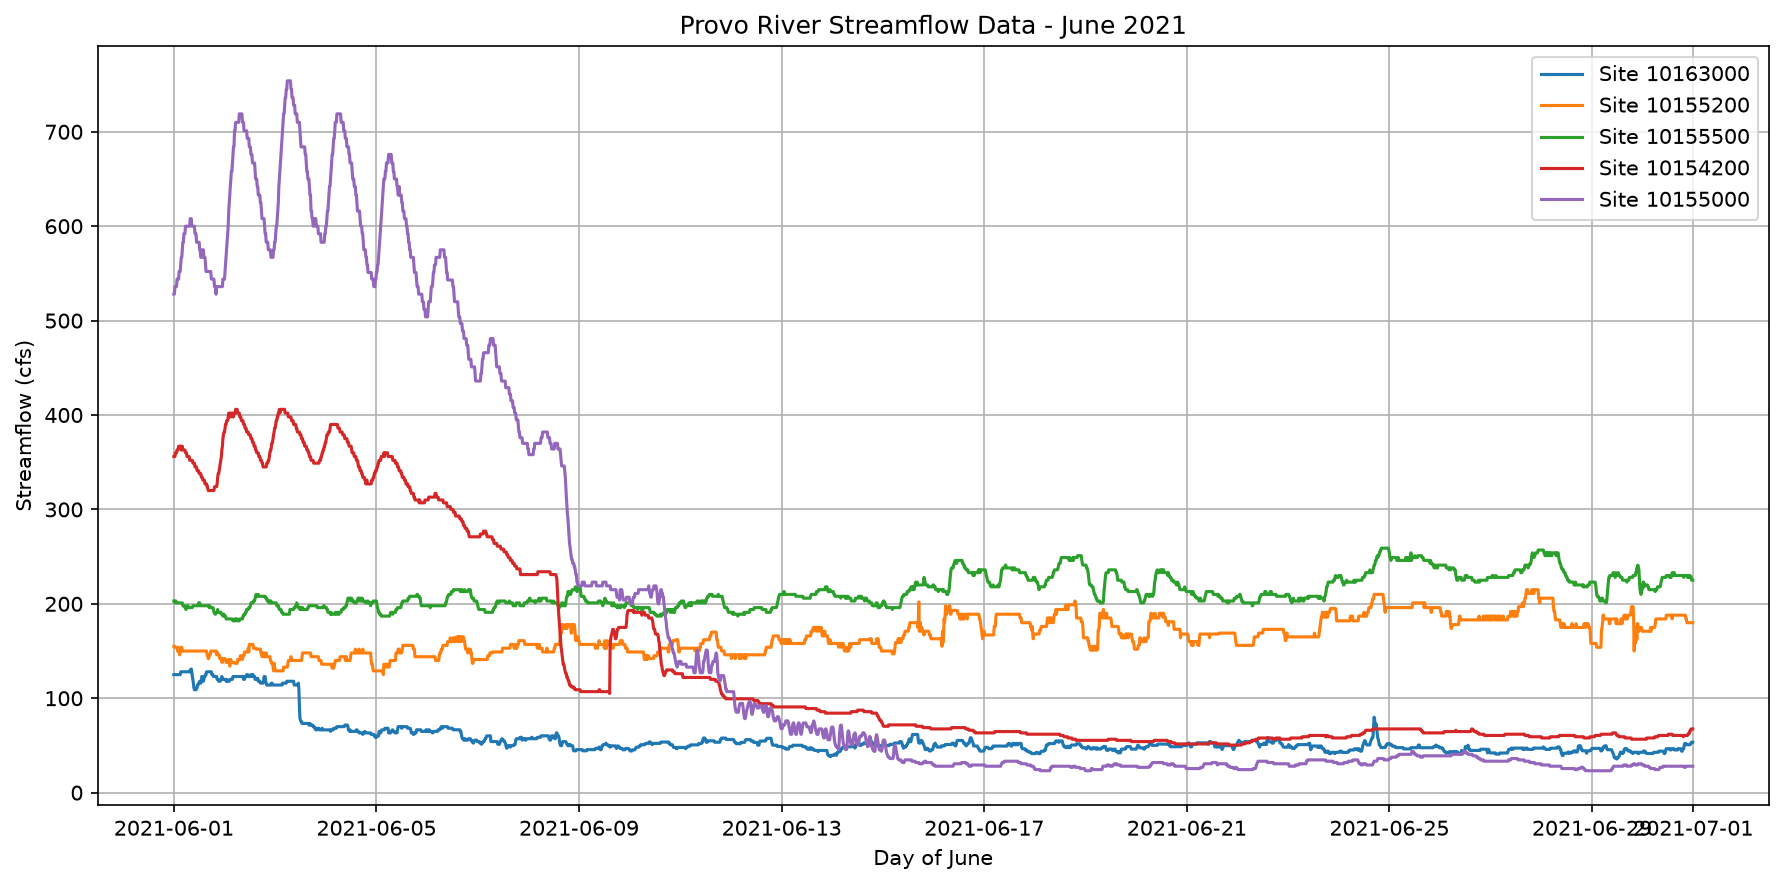
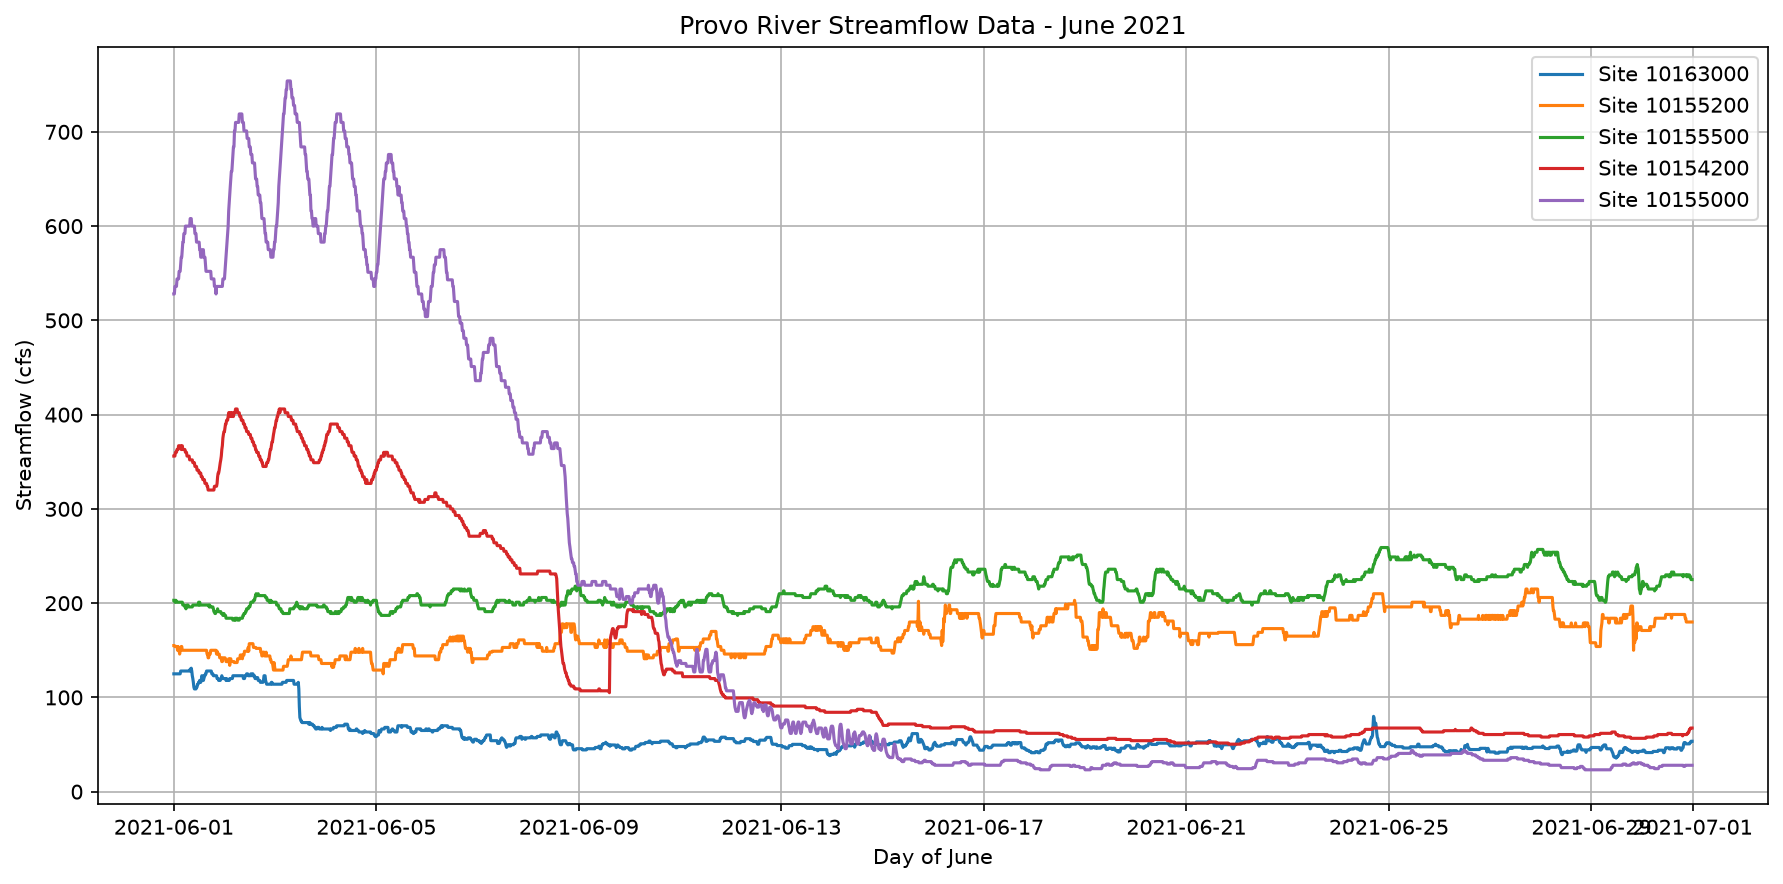
add summary report

diff --git a/streamflow.py b/streamflow.py
@@ -1,3 +1,4 @@
+import csv
 import numpy as np
 import matplotlib.pyplot as plt
 
@@ -26,7 +27,29 @@ def plot_streamflow(dates, flows, sites):
     plt.show()
 
 
+def summarize(dates, flows, sites):
+    """Print and save maximum, minimum, and average flow for each gauge."""
+    header = f"{'Gauge':<10}{'Max (cfs)':>12}   {'Date of max':<19}{'Min (cfs)':>12}{'Avg (cfs)':>12}"
+    print(header)
+
+    with open("streamflow_summary.csv", "w", newline="", encoding="utf-8") as file:
+        writer = csv.writer(file)
+        writer.writerow(["Gauge", "Max (cfs)", "Date of max", "Min (cfs)", "Avg (cfs)"])
+
+        for column, site in enumerate(sites):
+            gauge_flows = flows[:, column]
+            max_index = np.argmax(gauge_flows)
+            max_flow = np.max(gauge_flows)
+            date_of_max = np.datetime_as_string(dates[max_index], unit="m").replace("T", " ")
+            min_flow = np.min(gauge_flows)
+            avg_flow = np.mean(gauge_flows)
+
+            print(f"{site:<10}{max_flow:12.1f}   {date_of_max:<19}{min_flow:12.1f}{avg_flow:12.1f}")
+            writer.writerow([site, f"{max_flow:.1f}", date_of_max, f"{min_flow:.1f}", f"{avg_flow:.1f}"])
+
+
 # Main program
 sites = ["10163000", "10155200", "10155500", "10154200", "10155000"]
 dates, flows = load_streamflow("June-2021-Provo-River-Streamflow-Rates.csv")
+summarize(dates, flows, sites)
 plot_streamflow(dates, flows, sites)
